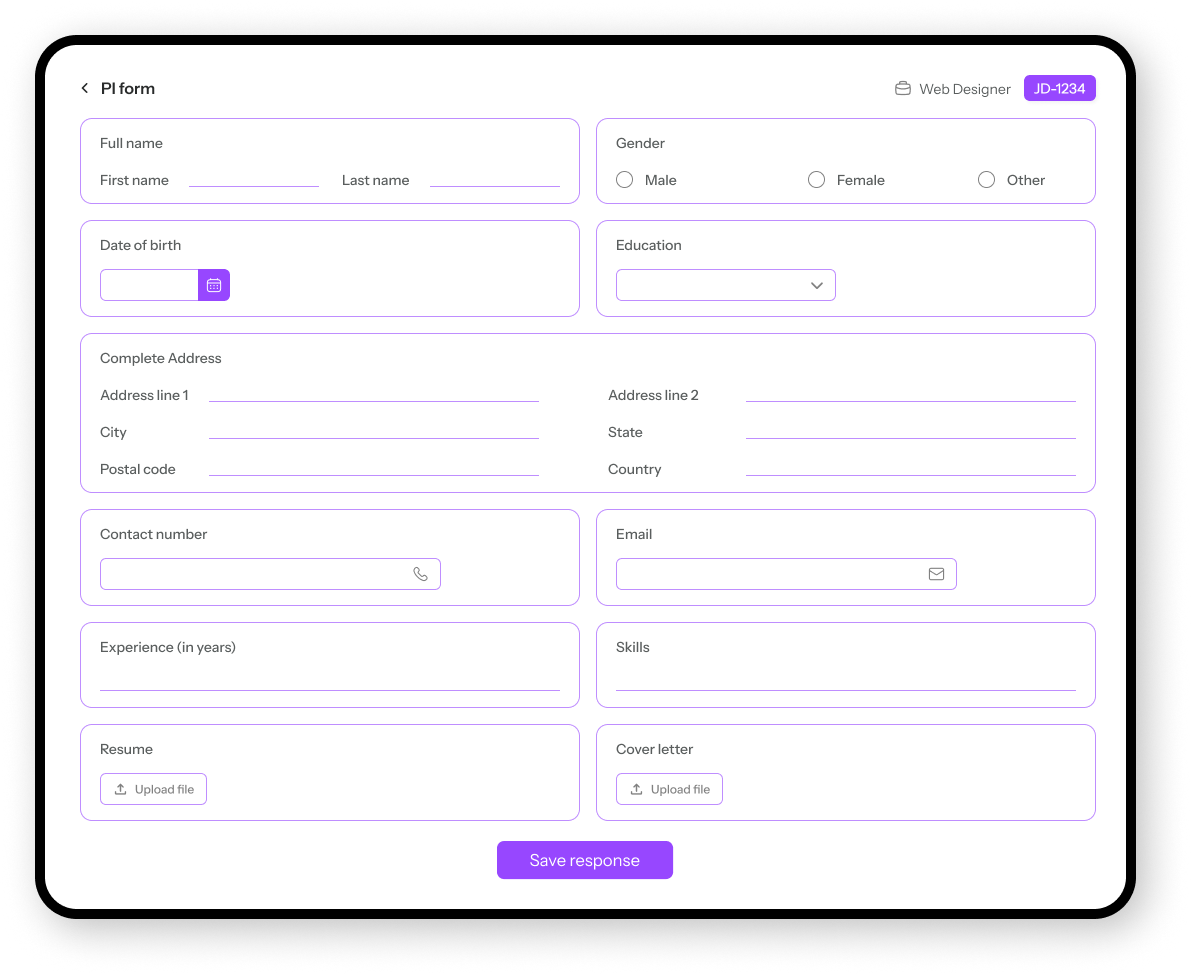
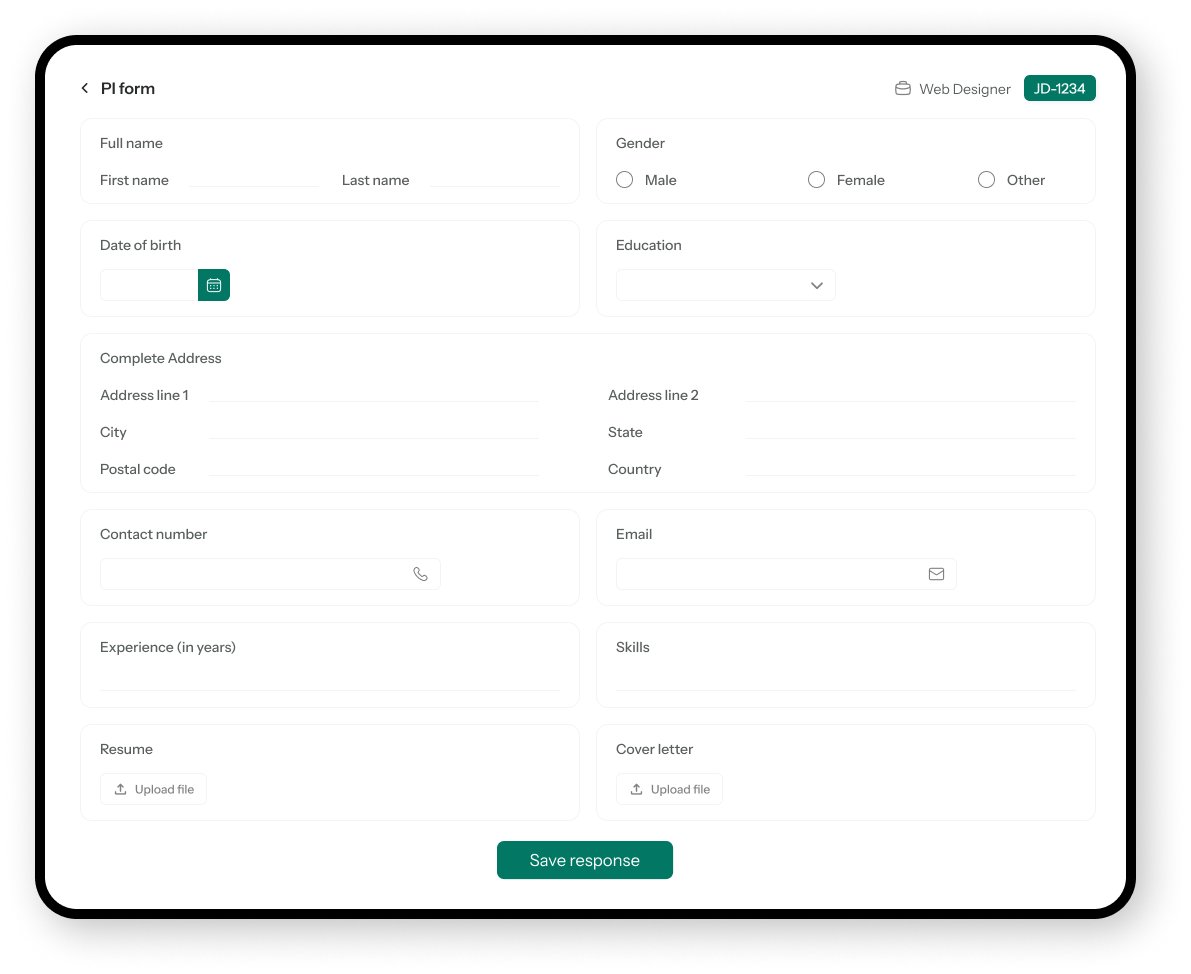
TrussHireMate

Changed region(s): [[0.4039, 0.8624, 0.5903, 0.924], [0.8388, 0.0616, 0.932, 0.1232], [0.1553, 0.2772, 0.2175, 0.308]]

diff --git a/src/Pages/Feature.jsx b/src/Pages/Feature.jsx
@@ -239,7 +239,7 @@ const Feature = () => {
 
       {/* interview images*/}
       <section className=" sm:py-2 bg-gradient-to-br from-[#027864] via-teal-500 to-[#027864]">
-        <div className="max-w-7xl mx-auto px-4 sm:px-6 lg:px-8 h-full">
+        <div className="max-w-7xl pt-12 mx-auto px-4 sm:px-6 lg:px-8 h-full">
           <div className="text-center space-y-4 sm:mb-12">
             <h2 className="text-3xl md:text-5xl font-semibold text-white">
               Ready to Transform Your Hiring?
@@ -251,23 +251,16 @@ const Feature = () => {
               demo today!
             </p>
           </div>
-          {/* <div className="flex mt-16 h-full">
-            <div className=" flex flex-col sm:flex-row h-[500px] w-[700px]  mb-24 sm:mb-2 sm:mt-12 gap-4 sm:gap-12">
+          <div className=" mt-16 h-full ">
+            <div className=" flex flex-col justify-center items-center sm:flex-row  mb-24 sm:mb-12 sm:mt-12 gap-4 sm:gap-12">
               <img
-                src="/Frame2.png"
+                src="interview 1.png"
                 alt="TrussHireMate Demo"
-                className="max-w-full h-[300px] w-[400px] sm:h-[500px] sm:w-[500px] transform transition-transform duration-500 hover:scale-105"
-              />
-              <div className="text-yellow-600 text-4xl flex justify-center items-center ">
-                <ArrowRight className="w-8 h-8 sm:w-12 sm:h-12 text-black border rounded-full sm:mb-4 " />
-              </div>
-              <img
-                src="/Frame1.png"
-                alt="TrussHireMate Demo"
-                className="max-w-full h-[300px] sm:h-[500px] w-[400px] sm:w-[500px] transform transition-transform duration-500 hover:scale-105 "
-              />
+                className="max-w-full h-auto sm:h-[700px] sm:w-[] transform transition-transform duration-500 hover:scale-105 "
+              /> 
+             
             </div>
-          </div> */}
+          </div>
         </div>
       </section>
 
